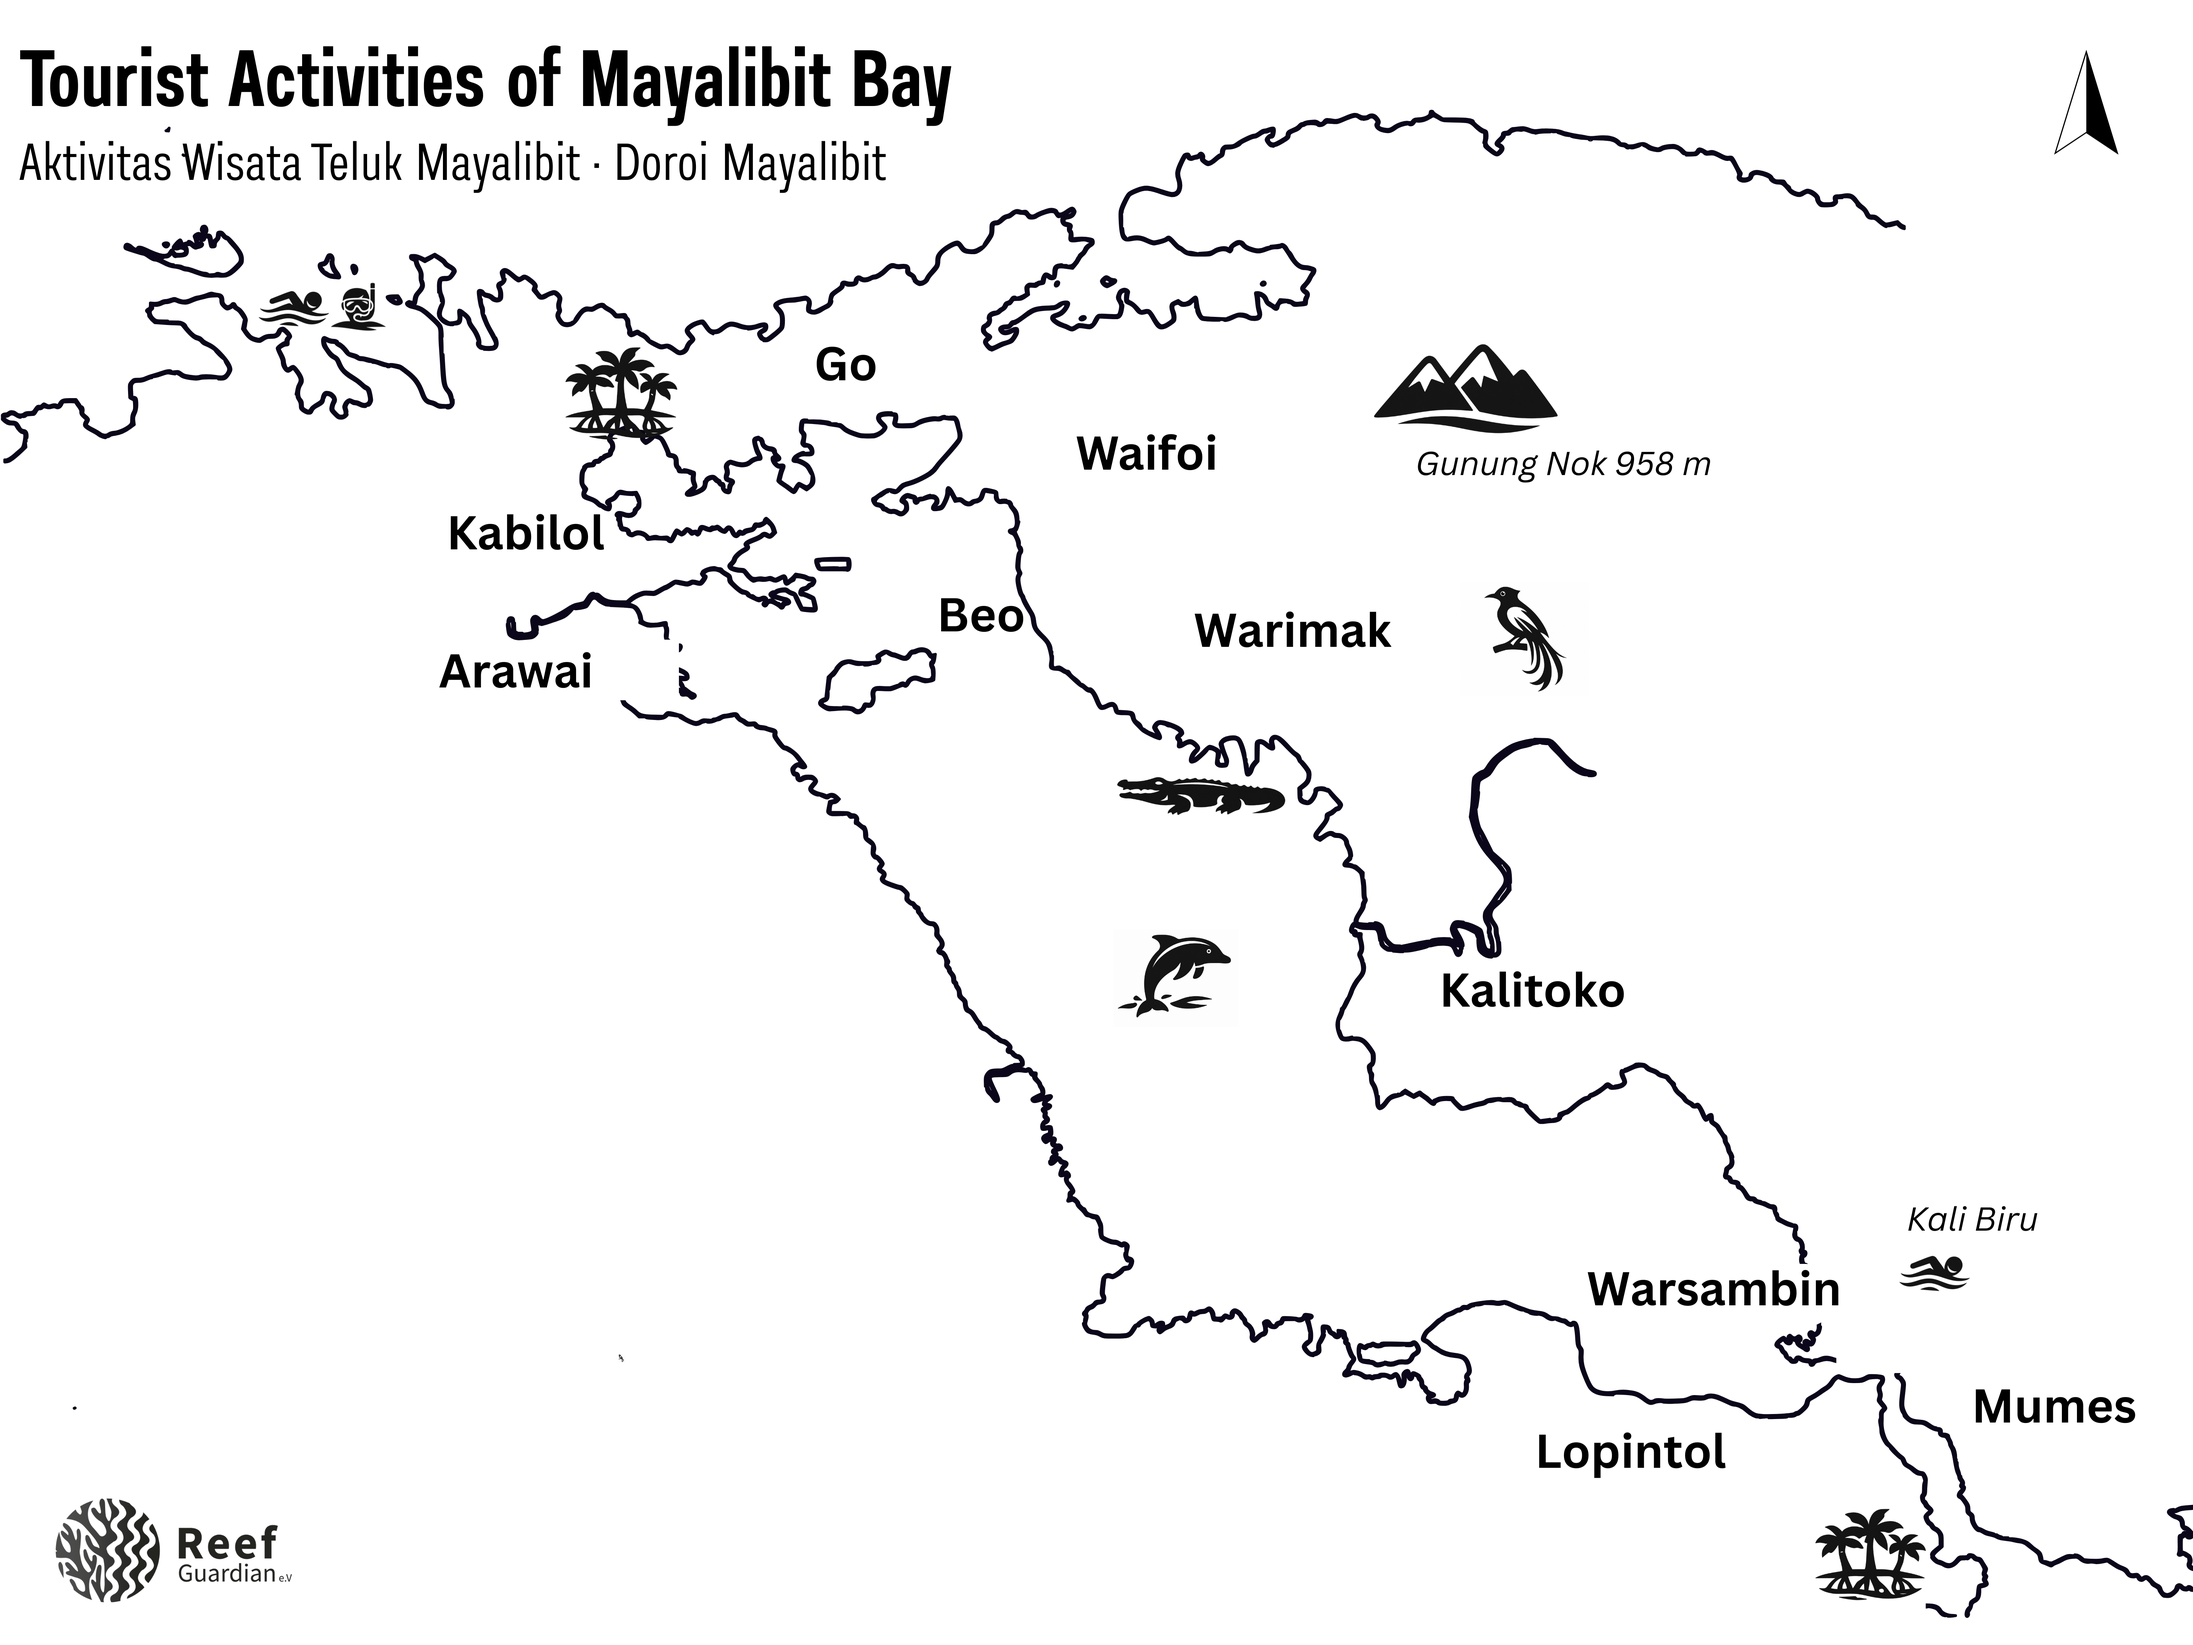
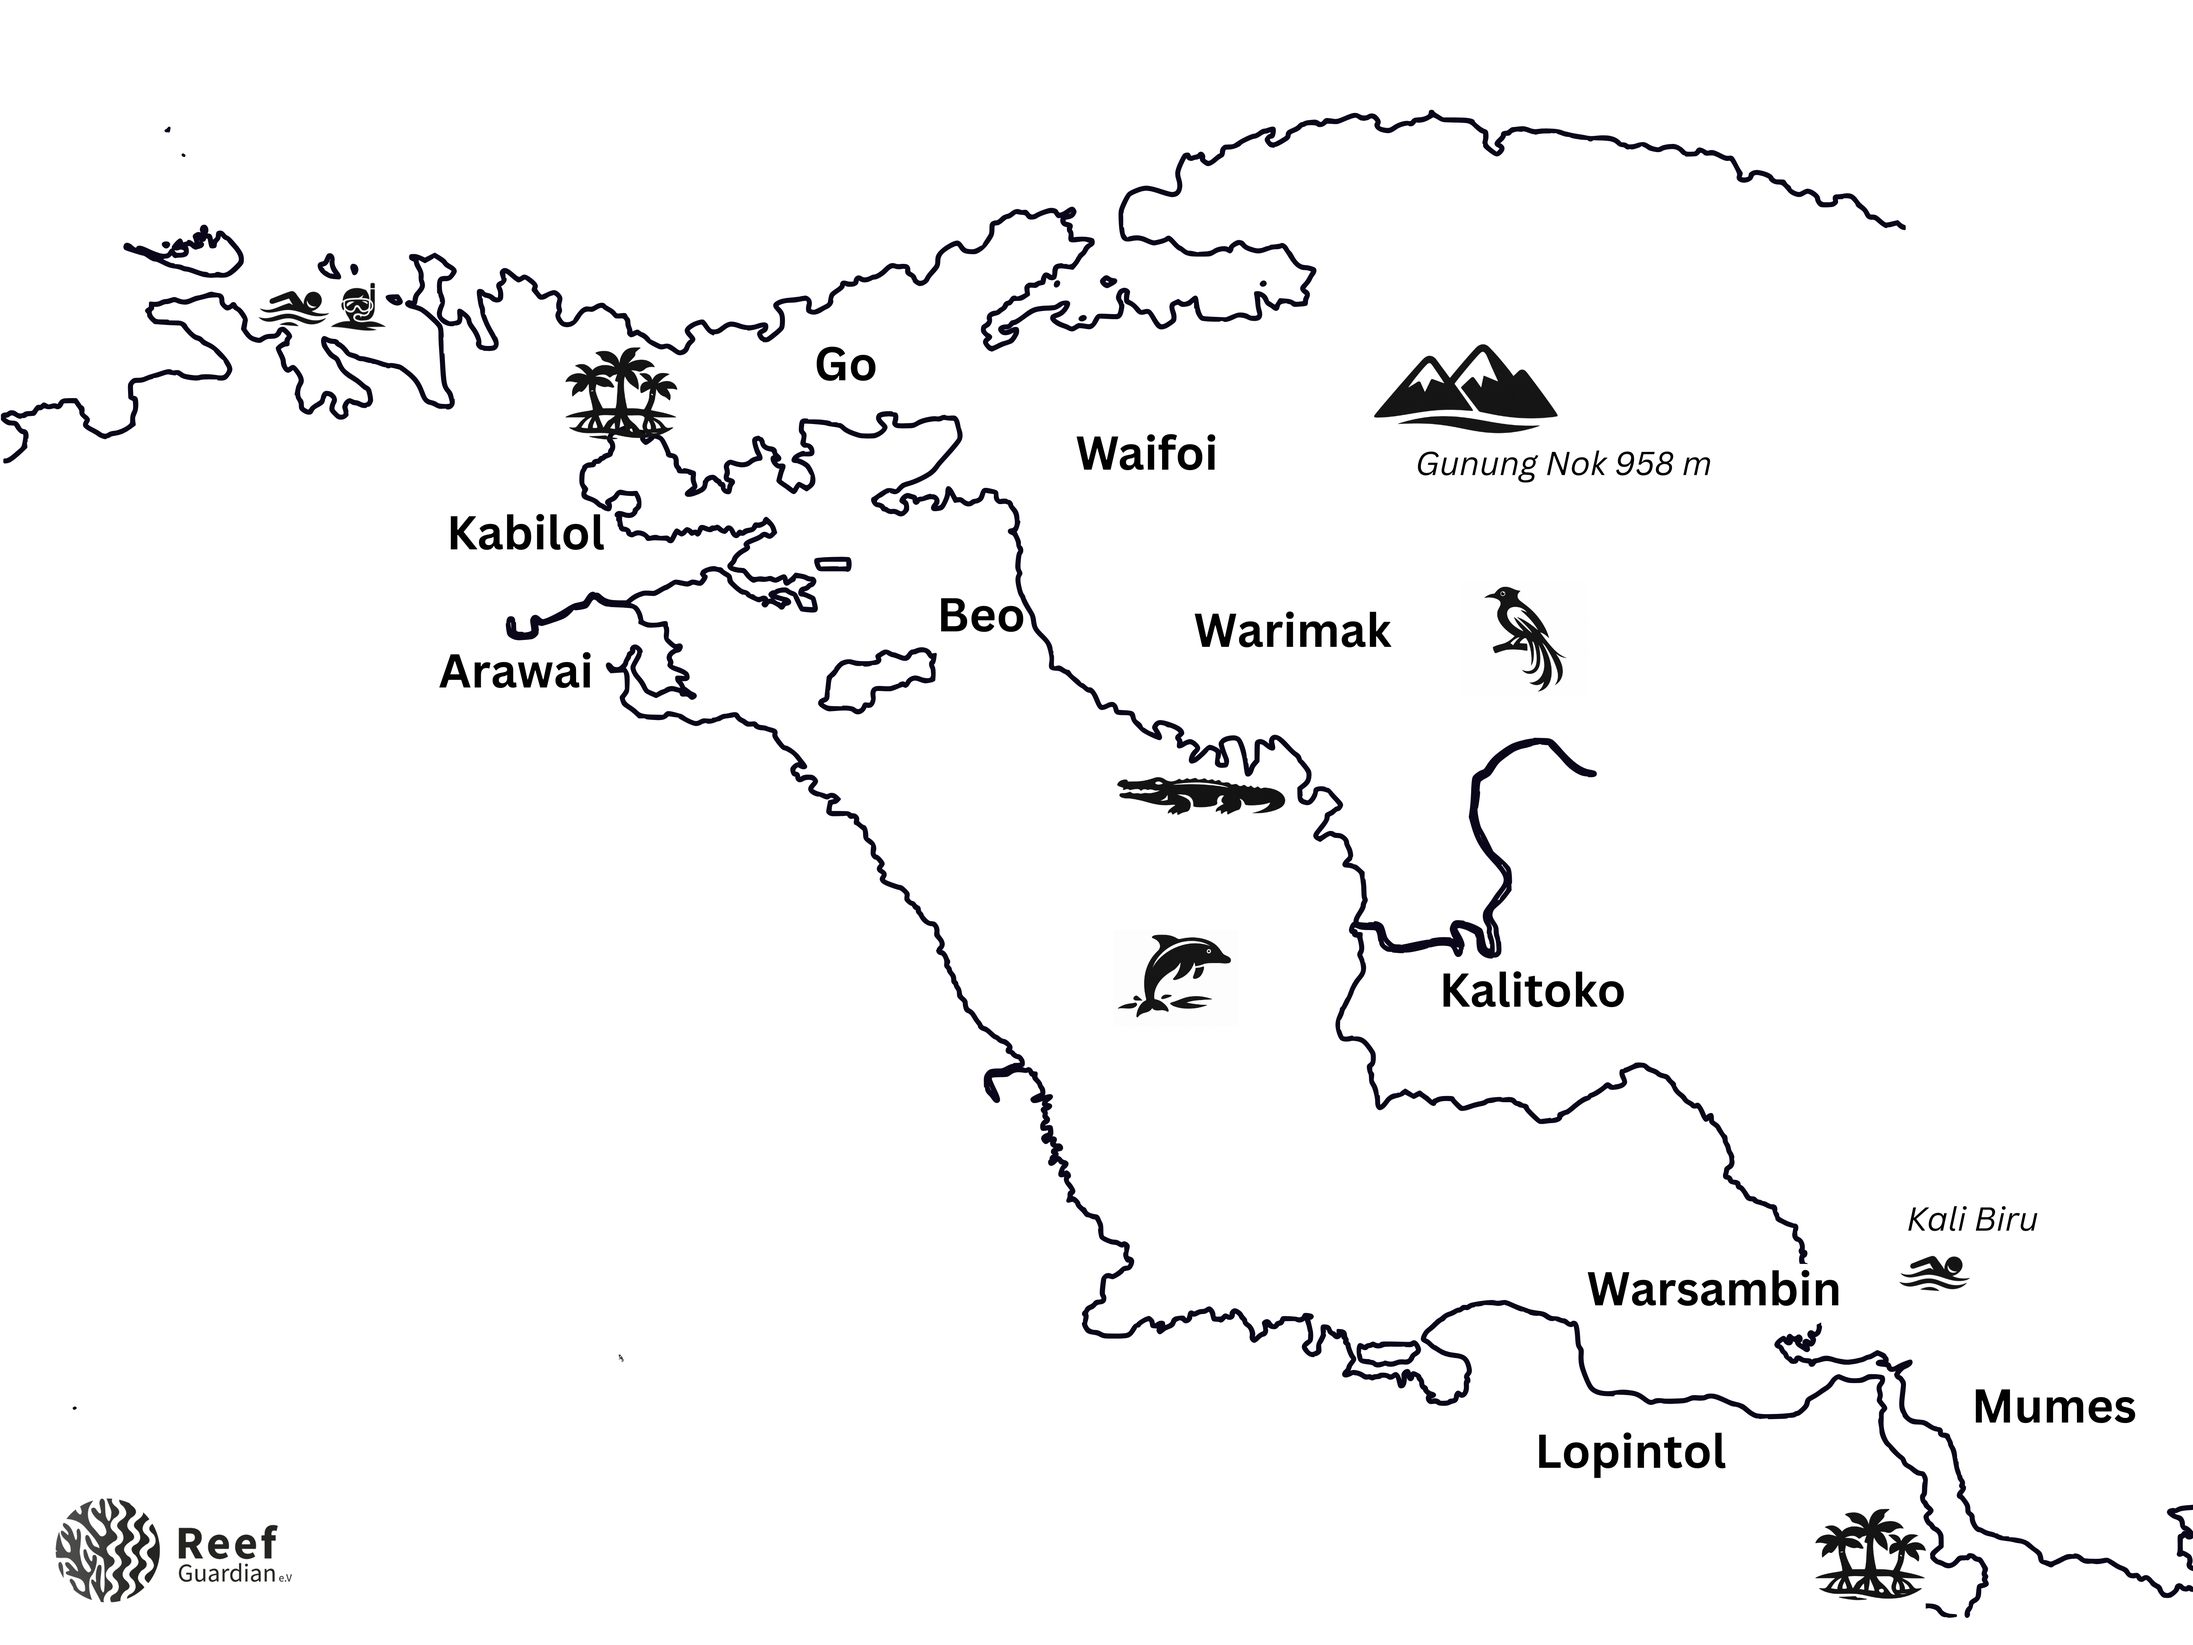
updated map

diff --git a/index.html b/index.html
@@ -3,7 +3,7 @@
 <head>
 <meta charset="UTF-8">
 <meta name="viewport" content="width=device-width, initial-scale=1.0">
-<title>Tourist Activities of Mayalibit Bay · mayalibit.com</title>
+<title>Tourist Activities of Mayalibit Bay · Aktivitas Wisata Teluk Mayalibit · Doroi Mayalibit </title>
 <link href="https://fonts.googleapis.com/css2?family=Playfair+Display:wght@700&family=Lato:wght@300;400;700&display=swap" rel="stylesheet">
 <link rel="stylesheet" href="map.css">
 </head>
